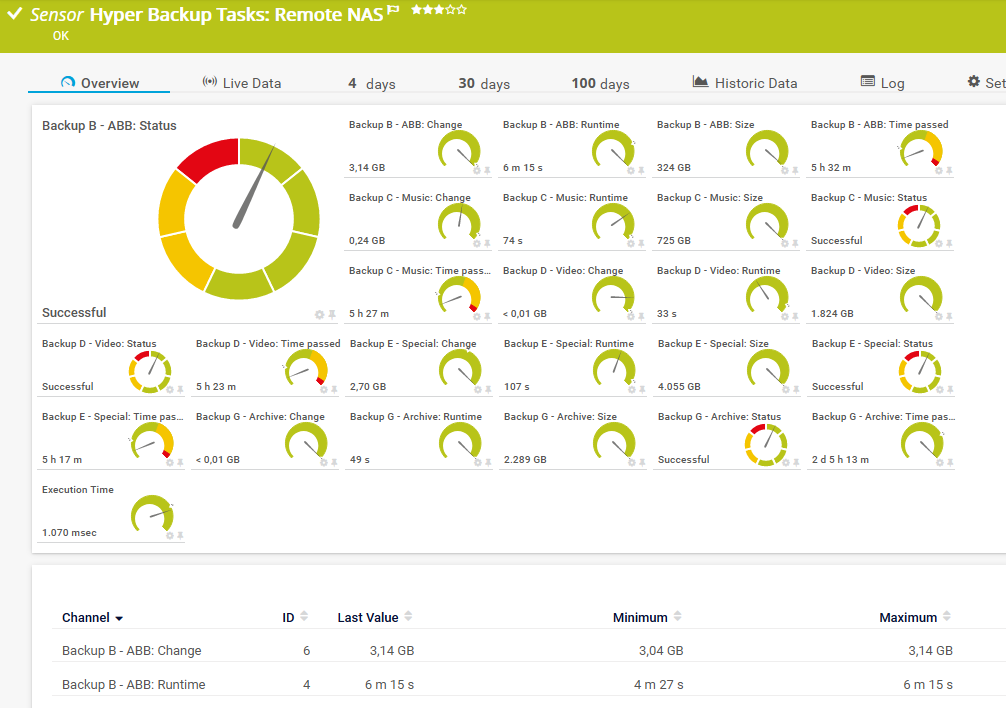
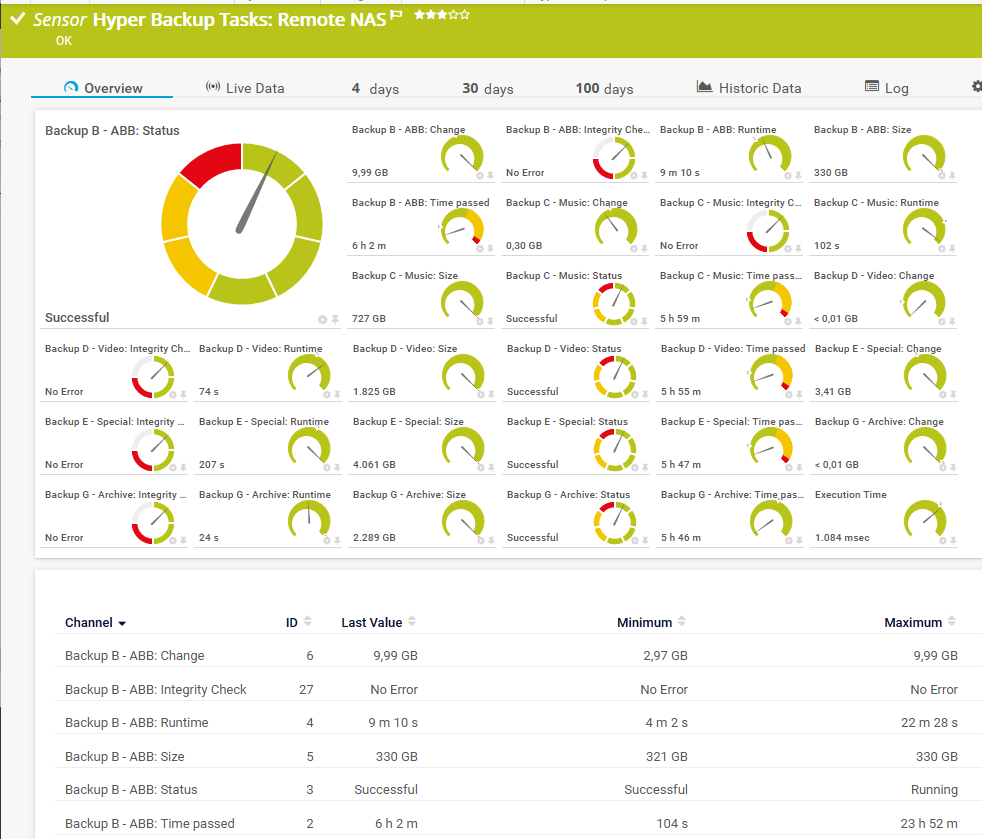
Test (#2)
* Added new values

Added check for backup integrity
Test added whether backup has already been run

* Update nas_hb_status.sh

* Add files via upload

* Update README.md

* Delete nas_hb_status_sensor.png

* Add files via upload

diff --git a/README.md b/README.md
@@ -2,7 +2,7 @@
 
 Bash script for PRTG by Paessler to monitoring status of backup with Synology's Hyper Backup
 
-The sensor will show the status of the backups, time passed since the last backup, size and changed size of data. The data is collected from */var/log/synolog/synobackup.log* & */var/log/messages*.
+The sensor will show the status of the backups, integrity, time passed since the last backup, size and changed size of data. The data is collected from */var/log/synolog/synobackup.log* & */var/log/messages*.
 
 Sensor has to be created in PRTG on your Synology device.
 
@@ -47,7 +47,5 @@ This script will set default values for limits in the *Time passed* channel:
 Upper warning limit: 36 h (129600 s)
 
 Upper error limit: 60 h (216000 s)
-
-**HINT:** If a backup runs the first time some values shown in the channels may not be valid because the value is not existing in the logs.
 
 ![Screenshot1](https://github.com/WAdama/nas_hb_status/blob/master/images/nas_hb_status_sensor.png)
